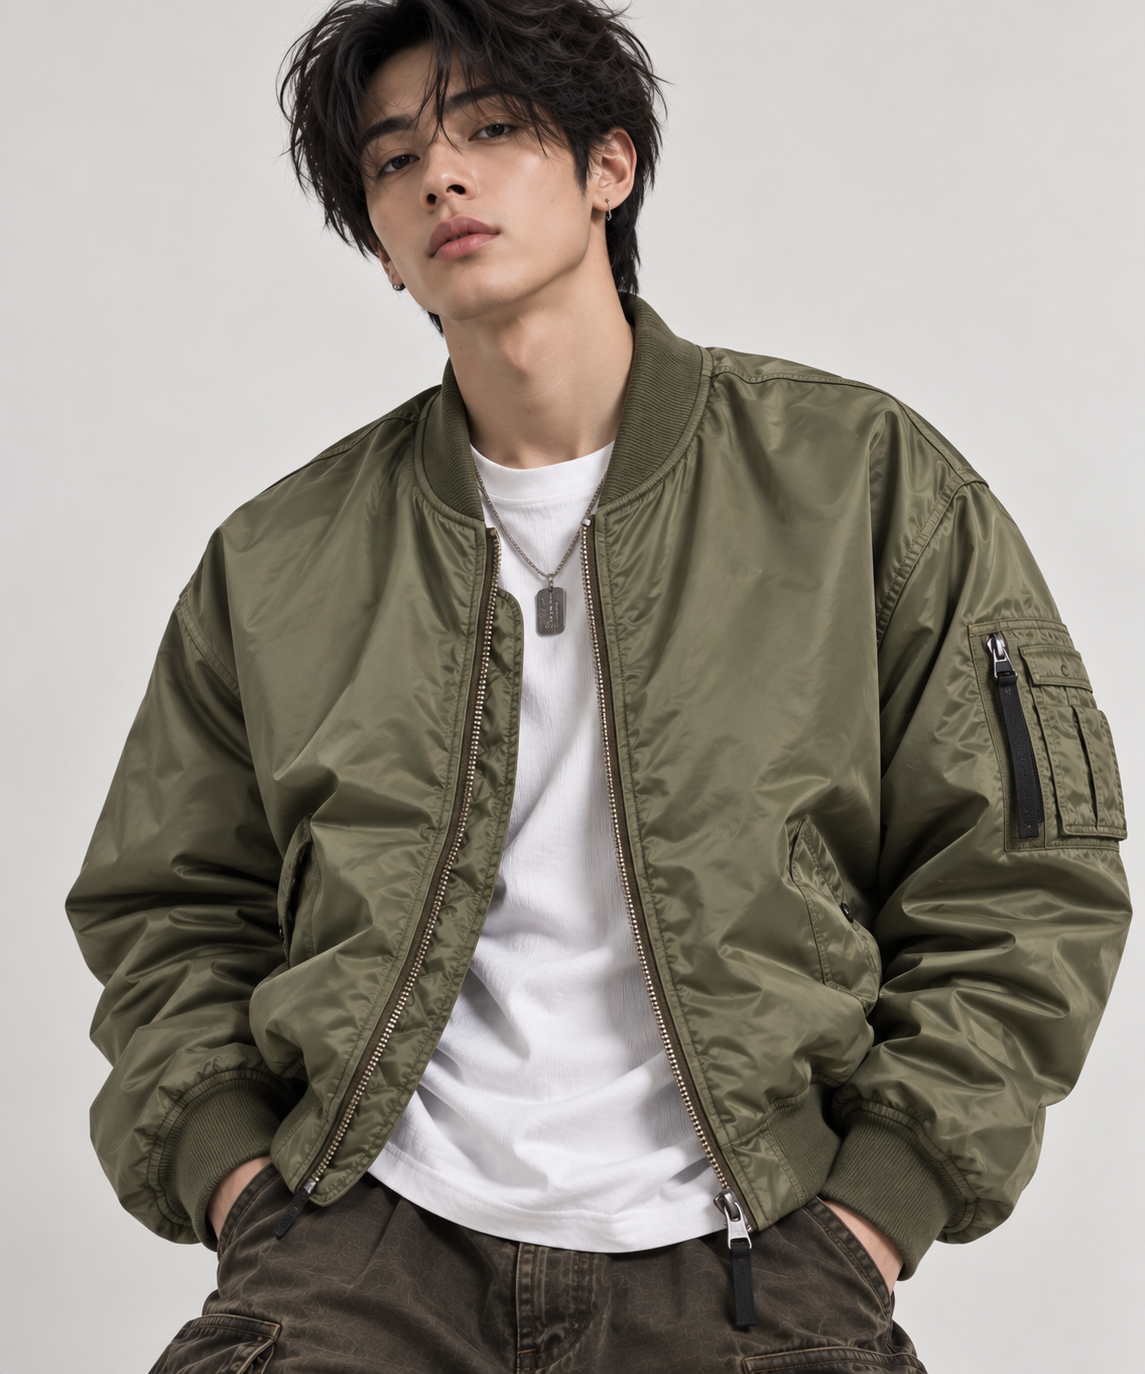
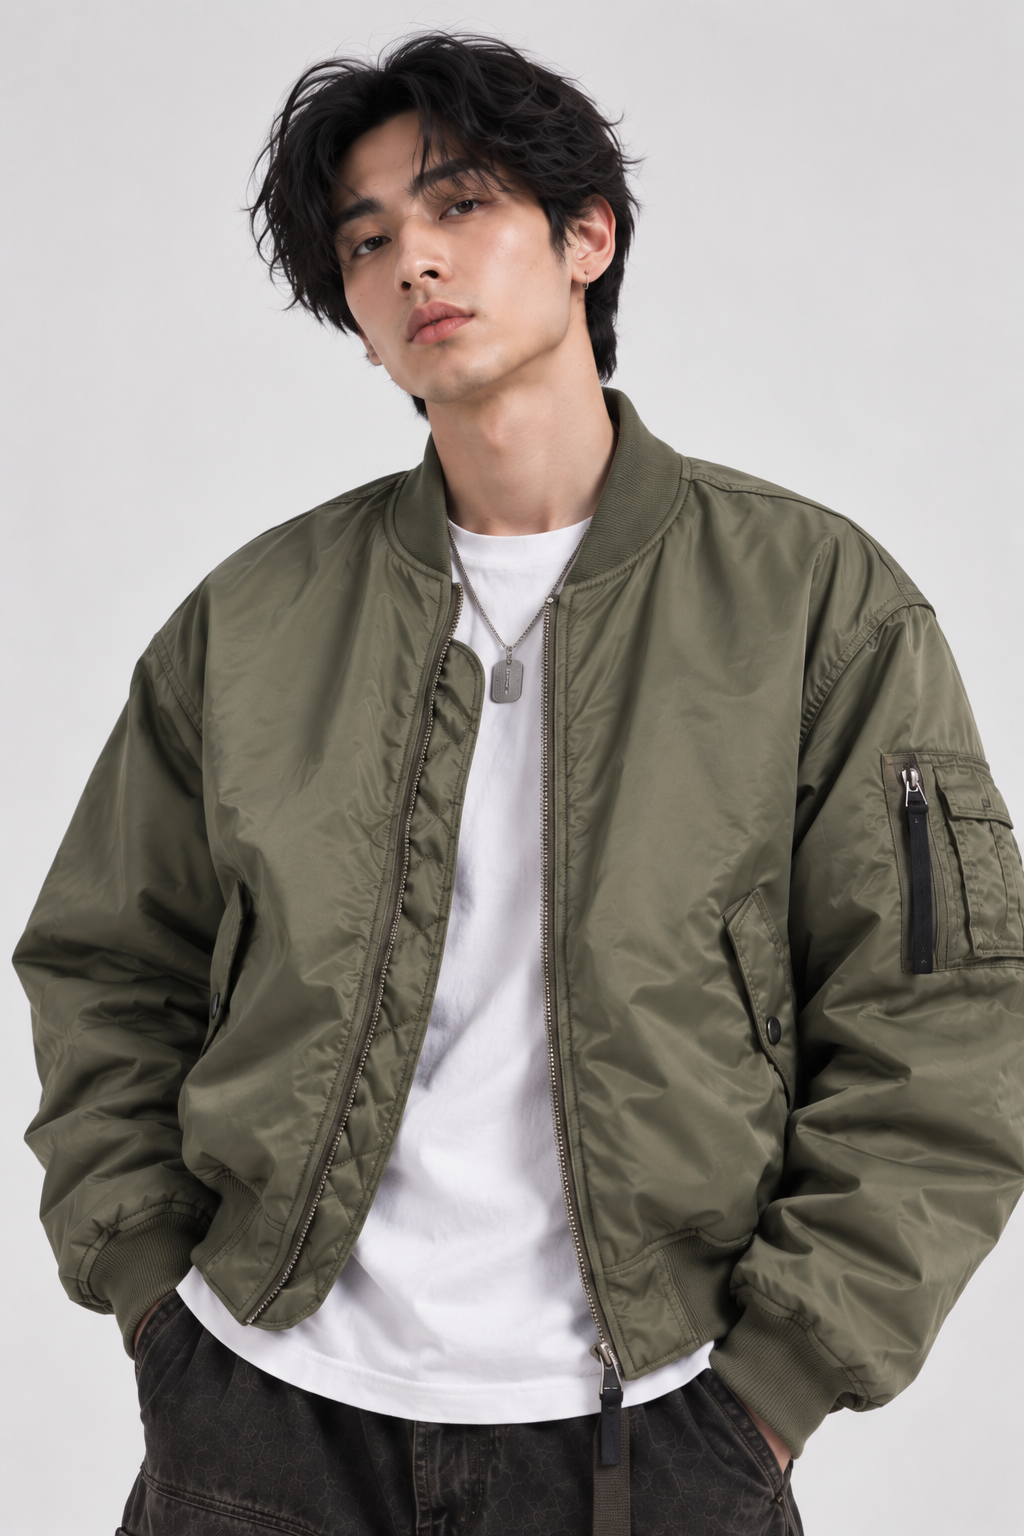
Replace closeup image for Nylon MA-1 Bomber (new detail2); bump cache v57

diff --git a/js/data.js b/js/data.js
@@ -97,7 +97,7 @@ const PRODUCTS = [
   {id:"rl-coated-flare-jeans", name:"Coated Skinny-Flare Jeans", cat:"Denim", price:128, was:0, color:"Coated Black", tag:"", rating:4.6, reviews:29, sizes:["S","M","L","XL"], oos:[], photos:["rl-coated-flare-jeans-front.jpg","rl-coated-flare-jeans-side.jpg","rl-coated-flare-jeans-back.jpg","rl-coated-flare-jeans-detail.jpg"], story:["The Coated Skinny-Flare Jeans bring a sleek, rock-leaning edge with a glossy coated-black finish, a subtle tonal crackle texture and a skinny-through-the-thigh, flared-at-the-hem cut. The waxed coating gives them a leather-like sheen.","Sitting low on the waist and slim through the leg before flaring out below the knee, they read sharp and elongating. Cut from a coated cotton-stretch denim that hugs and moves with you."], model:"Model is 175cm / 5ft 9in — wears size M", features:["Skinny-flare fit","Low-rise","Glossy coated-black finish with tonal crackle","Flares below the knee","Five-pocket styling","Reserved LA woven tab","Coated cotton-stretch denim"], desc:"Waxed-coating denim with a slim top block and dramatic flared hem for a sleek, leather-like finish."},
   {id:"rl-patchwork-repair-denim", name:"Patchwork Repair Denim", cat:"Denim", price:144, was:168, color:"Vintage Patch", tag:"SALE", rating:4.8, reviews:52, sizes:["S","M","L","XL","XXL"], oos:["S"], photos:["rl-patchwork-repair-denim-front.jpg","rl-patchwork-repair-denim-side.jpg","rl-patchwork-repair-denim-back.jpg","rl-patchwork-repair-denim-detail.jpg"], story:["The Patchwork Repair Denim celebrates imperfection, piecing contrasting mid-indigo panels and visible repairs into a one-of-a-kind relaxed wide-leg jean. A subtle tonal monogram runs through the base wash, and every pair carries its own map of patches and stitching.","Exposed repair stitching, layered patches, blown-out rips and a carpenter hammer loop give it a genuinely artisanal, upcycled feel. Built from heavyweight cotton denim for durability under all that detail."], model:"Model is 185cm / 6ft 1in, 75kg / 165lbs, 32-inch waist — wears size M", features:["Relaxed wide-leg fit","Mid-indigo with tonal monogram","Contrast patchwork panels","Visible repair stitching and rips","Carpenter hammer loop","Reserved LA woven tab","100% cotton denim"], desc:"Repair-detailed denim pieced from contrasting washes with visible darning and a relaxed straight leg."},
   {id:"rl-waxed-trucker-jacket", name:"Waxed Trucker Jacket", cat:"Jackets", price:168, was:0, color:"Washed Brown", tag:"NEW", rating:4.8, reviews:37, sizes:["S","M","L","XL"], oos:[], photos:["rl-waxed-trucker-jacket-front.jpg","rl-waxed-trucker-jacket-side.jpg","rl-waxed-trucker-jacket-back.jpg","rl-waxed-trucker-jacket-detail.jpg"], story:["The Waxed Trucker Jacket reworks a denim-jacket classic in a washed-brown crackle-coated cotton for a moody, weather-ready finish. The marbled coating develops natural wear marks and character over time.","Classic trucker lines — chest flap pockets, button front and adjustable waist tabs — stay true to the original, upgraded in an oversized boxy cut with a subtle sheen. Built from coated cotton canvas that only looks better with age."], model:"Model is 185cm / 6ft 1in, 75kg / 165lbs, 40-inch chest — wears size M", features:["Oversized trucker fit","Washed-brown crackle-coated finish","Button-front closure","Chest flap pockets","Adjustable waist tabs","Reserved LA woven label","Coated cotton canvas"], desc:"Structured trucker in a washed-brown crackle-coated cotton with a broken-in sheen, chest flap pockets, and an oversized boxy cut."},
-  {id:"rl-nylon-ma1-bomber", name:"Nylon MA-1 Bomber", cat:"Jackets", price:148, was:0, color:"Sage", tag:"", rating:4.7, reviews:44, sizes:["S","M","L","XL","XXL"], oos:[], photos:["rl-nylon-ma1-bomber-front.jpg","rl-nylon-ma1-bomber-side.jpg","rl-nylon-ma1-bomber-back.jpg","rl-nylon-ma1-bomber-detail.jpg"], story:["The Nylon MA-1 Bomber pays homage to the military flight jacket in a clean sage nylon, cut oversized for a modern, roomy drape. A timeless silhouette that anchors everything from denim to cargos.","The signature utility sleeve pocket, ribbed trims and a branded zip-pull tab keep it authentic, while the lightweight fill works year-round. Cut from smooth water-resistant nylon."], model:"Model is 185cm / 6ft 1in, 75kg / 165lbs, 40-inch chest — wears size M", features:["Oversized MA-1 fit","Utility zip sleeve pocket","Ribbed collar, cuffs and hem","Full-zip front with pull tab","Lightweight insulation","Reserved LA woven label","Water-resistant nylon"], desc:"Classic MA-1 silhouette in matte nylon with a utility sleeve pocket and ribbed collar, cuffs and hem."},
+  {id:"rl-nylon-ma1-bomber", name:"Nylon MA-1 Bomber", cat:"Jackets", price:148, was:0, color:"Sage", tag:"", rating:4.7, reviews:44, sizes:["S","M","L","XL","XXL"], oos:[], photos:["rl-nylon-ma1-bomber-front.jpg","rl-nylon-ma1-bomber-side.jpg","rl-nylon-ma1-bomber-back.jpg","rl-nylon-ma1-bomber-detail2.jpg"], story:["The Nylon MA-1 Bomber pays homage to the military flight jacket in a clean sage nylon, cut oversized for a modern, roomy drape. A timeless silhouette that anchors everything from denim to cargos.","The signature utility sleeve pocket, ribbed trims and a branded zip-pull tab keep it authentic, while the lightweight fill works year-round. Cut from smooth water-resistant nylon."], model:"Model is 185cm / 6ft 1in, 75kg / 165lbs, 40-inch chest — wears size M", features:["Oversized MA-1 fit","Utility zip sleeve pocket","Ribbed collar, cuffs and hem","Full-zip front with pull tab","Lightweight insulation","Reserved LA woven label","Water-resistant nylon"], desc:"Classic MA-1 silhouette in matte nylon with a utility sleeve pocket and ribbed collar, cuffs and hem."},
   {id:"rl-hooded-puffer-jacket", name:"Hooded Puffer Jacket", cat:"Jackets", price:198, was:0, color:"Jet Black", tag:"NEW", rating:4.9, reviews:51, sizes:["S","M","L","XL","XXL"], oos:[], photos:["rl-hooded-puffer-jacket-hero.jpg"], story:["The Hooded Puffer Jacket delivers proper cold-weather warmth in a sleek jet-black finish. Baffled channels and a fitted hood give it a clean, modern outline.","A full-zip front, high collar and zip hand pockets seal out the chill, while the lightweight fill packs serious warmth without bulk. Built from a matte water-resistant shell with insulated fill."], model:"Model is 185cm / 6ft 1in, 75kg / 165lbs, 40-inch chest — wears size M", features:["Regular fit","Fitted, insulated hood","Baffled quilt construction","Full-zip front with high collar","Zip hand pockets","Reserved LA woven label","Water-resistant shell, insulated fill"], desc:"Oversized baffle puffer with a high funnel hood and matte finish. Warm, roomy, and built for layering."},
   {id:"rl-suede-western-jacket", name:"Suede Western Jacket", cat:"Jackets", price:214, was:0, color:"Tobacco", tag:"", rating:4.7, reviews:22, sizes:["S","M","L","XL"], oos:["L"], photos:["rl-suede-western-jacket-hero.jpg"], story:["The Suede Western Jacket brings a warm tobacco tone and classic Western yokes for a rich, elevated layer. Soft suede gives it a luxe, tactile finish.","Front and back yokes, snap-button closure and slanted chest pockets nod to Western heritage, cut in a modern, slightly relaxed shape. Made from a soft faux-suede with a smooth lining."], model:"Model is 185cm / 6ft 1in, 75kg / 165lbs, 40-inch chest — wears size M", features:["Slightly relaxed fit","Western front and back yokes","Snap-button closure","Slanted chest pockets","Warm tobacco tone","Reserved LA woven label","Soft faux-suede"], desc:"Faux-suede western jacket with yoke seams, snap front, and a soft brushed hand. A refined layering piece."},
   {id:"rl-distressed-denim-trucker", name:"Distressed Denim Trucker", cat:"Jackets", price:156, was:184, color:"Faded Indigo", tag:"SALE", rating:4.6, reviews:39, sizes:["S","M","L","XL","XXL"], oos:[], photos:["rl-distressed-denim-trucker-hero.jpg"], story:["The Distressed Denim Trucker is a faded-indigo take on the icon, worked over with hand-placed distressing and abrasions for authentic vintage character. It reads like a jacket you have owned for years.","Classic trucker detailing — chest flap pockets, button front and waist tabs — meets rips, fades and repaired sections. Built from rigid cotton denim that softens with wear."], model:"Model is 185cm / 6ft 1in, 75kg / 165lbs, 40-inch chest — wears size M", features:["Classic trucker fit","Faded indigo wash","Hand-placed distressing and repairs","Button-front closure","Chest flap pockets","Reserved LA woven label","100% cotton denim"], desc:"Vintage-washed denim trucker with hand-done distressing and a cropped, boxy fit."},

diff --git a/shop.html b/shop.html
@@ -10,7 +10,7 @@
 <link href="https://fonts.googleapis.com/css2?family=Anton&family=Inter:wght@400;500;600;700&display=swap" rel="stylesheet">
   <link rel="icon" type="image/png" href="assets/favicon.png">
   <link rel="apple-touch-icon" href="assets/favicon.png">
-<link rel="stylesheet" href="styles.css?v=56">
+<link rel="stylesheet" href="styles.css?v=57">
 </head>
 <body>
 <div id="announce-slot"></div>
@@ -41,9 +41,9 @@
 </main>
 
 <div id="footer-slot"></div>
-<script src="js/data.js?v=56"></script>
-<script src="js/site.js?v=56"></script>
-<script src="js/shop.js?v=56"></script>
+<script src="js/data.js?v=57"></script>
+<script src="js/site.js?v=57"></script>
+<script src="js/shop.js?v=57"></script>
 <script>mountChrome("shop"); initShop();</script>
 </body>
 </html>

diff --git a/product.html b/product.html
@@ -10,7 +10,7 @@
 <link href="https://fonts.googleapis.com/css2?family=Anton&family=Inter:wght@400;500;600;700&display=swap" rel="stylesheet">
   <link rel="icon" type="image/png" href="assets/favicon.png">
   <link rel="apple-touch-icon" href="assets/favicon.png">
-<link rel="stylesheet" href="styles.css?v=56">
+<link rel="stylesheet" href="styles.css?v=57">
 </head>
 <body>
 <div id="announce-slot"></div>
@@ -25,9 +25,9 @@
 </main>
 
 <div id="footer-slot"></div>
-<script src="js/data.js?v=56"></script>
-<script src="js/site.js?v=56"></script>
-<script src="js/shop.js?v=56"></script>
+<script src="js/data.js?v=57"></script>
+<script src="js/site.js?v=57"></script>
+<script src="js/shop.js?v=57"></script>
 <script>mountChrome(""); initProduct();</script>
 </body>
 </html>

diff --git a/track-order.html b/track-order.html
@@ -10,7 +10,7 @@
 <link href="https://fonts.googleapis.com/css2?family=Anton&family=Inter:wght@400;500;600;700&display=swap" rel="stylesheet">
   <link rel="icon" type="image/png" href="assets/favicon.png">
   <link rel="apple-touch-icon" href="assets/favicon.png">
-<link rel="stylesheet" href="styles.css?v=56">
+<link rel="stylesheet" href="styles.css?v=57">
 </head>
 <body>
 <div id="announce-slot"></div>
@@ -31,8 +31,8 @@
 </main>
 
 <div id="footer-slot"></div>
-<script src="js/data.js?v=56"></script>
-<script src="js/site.js?v=56"></script>
+<script src="js/data.js?v=57"></script>
+<script src="js/site.js?v=57"></script>
 <script>
   mountChrome("");
   function trackSubmit(e){ e.preventDefault(); toast("We've emailed your latest tracking details."); return false; }

diff --git a/index.html b/index.html
@@ -20,7 +20,7 @@
 <link href="https://fonts.googleapis.com/css2?family=Anton&family=Inter:wght@400;500;600;700&display=swap" rel="stylesheet">
   <link rel="icon" type="image/png" href="assets/favicon.png">
   <link rel="apple-touch-icon" href="assets/favicon.png">
-<link rel="stylesheet" href="styles.css?v=56">
+<link rel="stylesheet" href="styles.css?v=57">
 </head>
 <body>
 <div id="announce-slot"></div>
@@ -181,9 +181,9 @@
 
 <div id="footer-slot"></div>
 
-<script src="js/data.js?v=56"></script>
-<script src="js/site.js?v=56"></script>
-<script src="js/shop.js?v=56"></script>
+<script src="js/data.js?v=57"></script>
+<script src="js/site.js?v=57"></script>
+<script src="js/shop.js?v=57"></script>
 <script>
   mountChrome("home");
 

diff --git a/contact.html b/contact.html
@@ -10,7 +10,7 @@
 <link href="https://fonts.googleapis.com/css2?family=Anton&family=Inter:wght@400;500;600;700&display=swap" rel="stylesheet">
   <link rel="icon" type="image/png" href="assets/favicon.png">
   <link rel="apple-touch-icon" href="assets/favicon.png">
-<link rel="stylesheet" href="styles.css?v=56">
+<link rel="stylesheet" href="styles.css?v=57">
 </head>
 <body>
 <div id="announce-slot"></div>
@@ -72,8 +72,8 @@
 </main>
 
 <div id="footer-slot"></div>
-<script src="js/data.js?v=56"></script>
-<script src="js/site.js?v=56"></script>
+<script src="js/data.js?v=57"></script>
+<script src="js/site.js?v=57"></script>
 <script>
   mountChrome("contact");
   document.getElementById("cPhone").innerHTML = BRAND.phone;

diff --git a/about.html b/about.html
@@ -10,7 +10,7 @@
 <link href="https://fonts.googleapis.com/css2?family=Anton&family=Inter:wght@400;500;600;700&display=swap" rel="stylesheet">
   <link rel="icon" type="image/png" href="assets/favicon.png">
   <link rel="apple-touch-icon" href="assets/favicon.png">
-<link rel="stylesheet" href="styles.css?v=56">
+<link rel="stylesheet" href="styles.css?v=57">
 </head>
 <body>
 <div id="announce-slot"></div>
@@ -48,8 +48,8 @@
 </main>
 
 <div id="footer-slot"></div>
-<script src="js/data.js?v=56"></script>
-<script src="js/site.js?v=56"></script>
+<script src="js/data.js?v=57"></script>
+<script src="js/site.js?v=57"></script>
 <script>mountChrome("about");</script>
 </body>
 </html>

diff --git a/business-disclaimer.html b/business-disclaimer.html
@@ -10,7 +10,7 @@
 <link href="https://fonts.googleapis.com/css2?family=Anton&family=Inter:wght@400;500;600;700&display=swap" rel="stylesheet">
   <link rel="icon" type="image/png" href="assets/favicon.png">
   <link rel="apple-touch-icon" href="assets/favicon.png">
-<link rel="stylesheet" href="styles.css?v=56">
+<link rel="stylesheet" href="styles.css?v=57">
 </head>
 <body>
 <div id="announce-slot"></div>
@@ -54,8 +54,8 @@
 </main>
 
 <div id="footer-slot"></div>
-<script src="js/data.js?v=56"></script>
-<script src="js/site.js?v=56"></script>
+<script src="js/data.js?v=57"></script>
+<script src="js/site.js?v=57"></script>
 <script>mountChrome("");</script>
 </body>
 </html>

diff --git a/faq.html b/faq.html
@@ -10,7 +10,7 @@
 <link href="https://fonts.googleapis.com/css2?family=Anton&family=Inter:wght@400;500;600;700&display=swap" rel="stylesheet">
   <link rel="icon" type="image/png" href="assets/favicon.png">
   <link rel="apple-touch-icon" href="assets/favicon.png">
-<link rel="stylesheet" href="styles.css?v=56">
+<link rel="stylesheet" href="styles.css?v=57">
 </head>
 <body>
 <div id="announce-slot"></div>
@@ -54,8 +54,8 @@
 </main>
 
 <div id="footer-slot"></div>
-<script src="js/data.js?v=56"></script>
-<script src="js/site.js?v=56"></script>
+<script src="js/data.js?v=57"></script>
+<script src="js/site.js?v=57"></script>
 <script>mountChrome("");</script>
 </body>
 </html>

diff --git a/privacy-policy.html b/privacy-policy.html
@@ -10,7 +10,7 @@
 <link href="https://fonts.googleapis.com/css2?family=Anton&family=Inter:wght@400;500;600;700&display=swap" rel="stylesheet">
   <link rel="icon" type="image/png" href="assets/favicon.png">
   <link rel="apple-touch-icon" href="assets/favicon.png">
-<link rel="stylesheet" href="styles.css?v=56">
+<link rel="stylesheet" href="styles.css?v=57">
 </head>
 <body>
 <div id="announce-slot"></div>
@@ -89,8 +89,8 @@
 </main>
 
 <div id="footer-slot"></div>
-<script src="js/data.js?v=56"></script>
-<script src="js/site.js?v=56"></script>
+<script src="js/data.js?v=57"></script>
+<script src="js/site.js?v=57"></script>
 <script>mountChrome("");</script>
 </body>
 </html>

diff --git a/refund-policy.html b/refund-policy.html
@@ -10,7 +10,7 @@
 <link href="https://fonts.googleapis.com/css2?family=Anton&family=Inter:wght@400;500;600;700&display=swap" rel="stylesheet">
   <link rel="icon" type="image/png" href="assets/favicon.png">
   <link rel="apple-touch-icon" href="assets/favicon.png">
-<link rel="stylesheet" href="styles.css?v=56">
+<link rel="stylesheet" href="styles.css?v=57">
 </head>
 <body>
 <div id="announce-slot"></div>
@@ -77,8 +77,8 @@
 </main>
 
 <div id="footer-slot"></div>
-<script src="js/data.js?v=56"></script>
-<script src="js/site.js?v=56"></script>
+<script src="js/data.js?v=57"></script>
+<script src="js/site.js?v=57"></script>
 <script>mountChrome("");</script>
 </body>
 </html>

diff --git a/shipping-policy.html b/shipping-policy.html
@@ -10,7 +10,7 @@
 <link href="https://fonts.googleapis.com/css2?family=Anton&family=Inter:wght@400;500;600;700&display=swap" rel="stylesheet">
   <link rel="icon" type="image/png" href="assets/favicon.png">
   <link rel="apple-touch-icon" href="assets/favicon.png">
-<link rel="stylesheet" href="styles.css?v=56">
+<link rel="stylesheet" href="styles.css?v=57">
 </head>
 <body>
 <div id="announce-slot"></div>
@@ -67,8 +67,8 @@
 </main>
 
 <div id="footer-slot"></div>
-<script src="js/data.js?v=56"></script>
-<script src="js/site.js?v=56"></script>
+<script src="js/data.js?v=57"></script>
+<script src="js/site.js?v=57"></script>
 <script>mountChrome("");</script>
 </body>
 </html>
